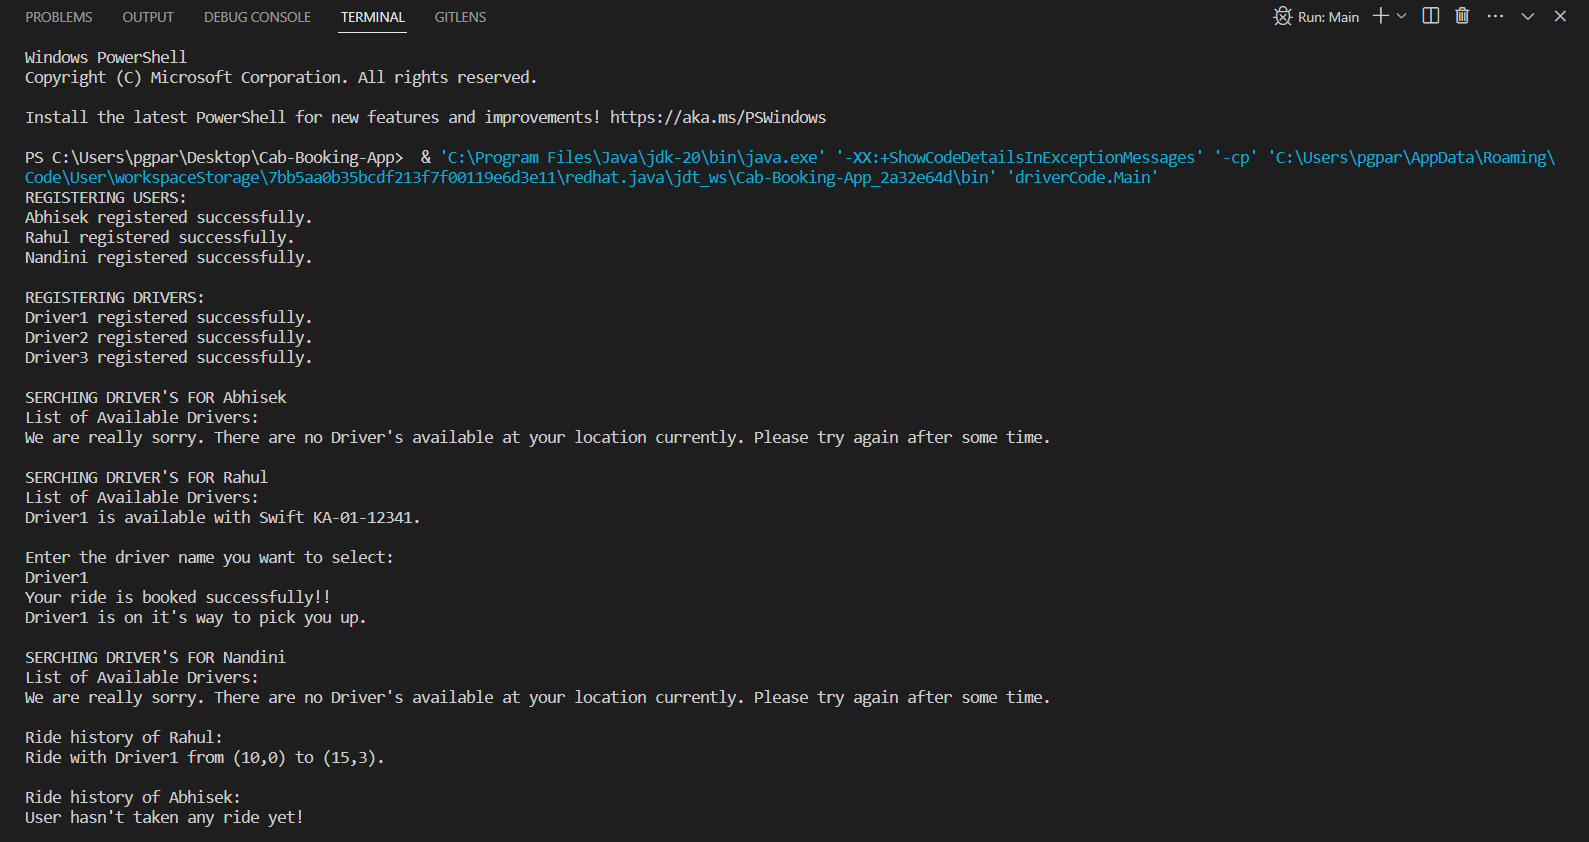
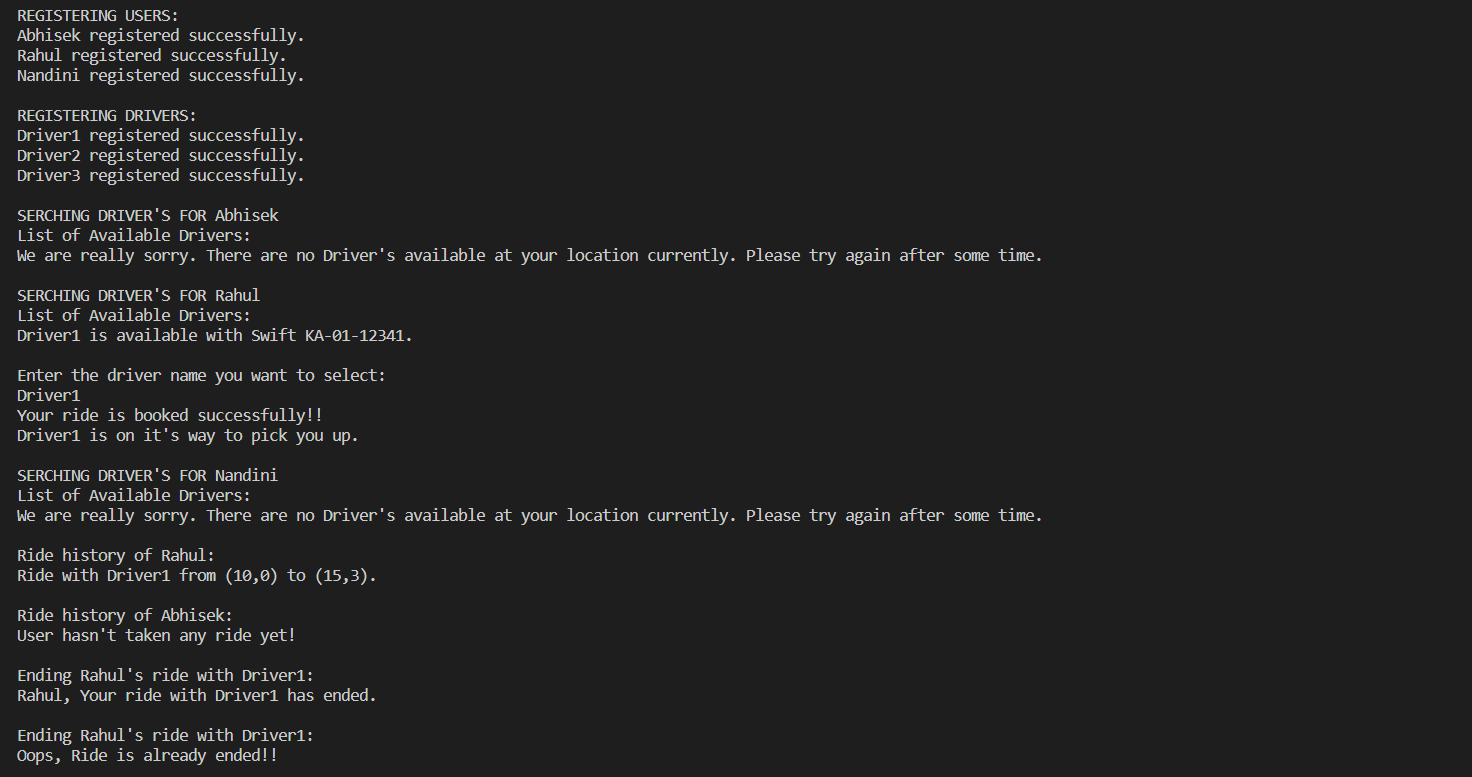
endRide feature added

diff --git a/src/services/RideService.java b/src/services/RideService.java
@@ -5,7 +5,7 @@ import models.User;
 import models.Location;
 import models.Ride;
 import java.util.*;
-import exceptions.DriverNotAvailableException;
+import exceptions.*;
 
 public class RideService {
 
@@ -47,8 +47,35 @@ public class RideService {
                 System.out.println("Your ride is booked successfully!!");
                 System.out.println(driver.getName()+" is on it's way to pick you up.");
                 System.out.println();
-                Ride ride = new Ride(driver, user, fromLocation, toLocation);
+                Ride ride = new Ride(driver, user, fromLocation, toLocation,true);
                 user.getRideList().add(ride);
+            }
+        }
+    }
+
+
+    public void endRide(int userId, String driverName, Location toLocation) throws RideEndedAlreadyException{
+        User user = userService.userMap.get(userId);
+        List<Ride> rideList=user.getRideList();
+        for(Ride ride : rideList){
+            if(ride.getUser().getId()==userId && ride.getDriver().getName().equals(driverName)){
+                System.out.println("Ending "+user.getName()+"'s ride with "+driverName+":");
+                if(ride.istripOngoing()){
+                    Driver driver= userService.driverMap.get(ride.getDriver().getId());
+                    driver.setAvailable(true);
+                    ride.setTripOngoing(false);
+                    System.out.println(user.getName()+", Your ride with "+driverName+" has ended.");
+                    System.out.println();
+                    driver.getVehicle().getLocation().setX(toLocation.getX());
+                    driver.getVehicle().getLocation().setY(toLocation.getY());
+                }
+                else{
+                    throw new RideEndedAlreadyException("Oops, Ride is already ended!!");
+                }
+                
+            }
+            else{
+                throw new RideEndedAlreadyException("Oops, Ride details not found to end the ride!!");
             }
         }
     }

diff --git a/src/services/UserService.java b/src/services/UserService.java
@@ -33,7 +33,7 @@ public class UserService {
     public Driver registerDriver(String name, int id, Gender gender, Vehicle v1, boolean available) throws CreateException {
         Driver driver = new Driver(name, id, gender, v1, available);
         if(driver == null || driverMap.containsKey(driver.getId())){
-            throw new CreateException("Oops!! Driver was not created.");
+            throw new CreateException("Oops!! Driver was not registered.");
         }
         driverMap.put(driver.getId(), driver);
         vehicleMap.put(driver.getVehicle().getvehicleId(), driver.getVehicle());
@@ -43,7 +43,7 @@ public class UserService {
     public User registerUser(String name, int id, Gender gender) throws CreateException{
         User user = new User(name, id, gender);
         if(user == null || userMap.containsKey(user.getId())){
-            throw new CreateException("Oops!! User was not created.");
+            throw new CreateException("Oops!! User was not registered.");
         }
         userMap.put(user.getId(), user);
         return user;

diff --git a/src/models/Ride.java b/src/models/Ride.java
@@ -5,12 +5,14 @@ public class Ride {
     private User user;
     private Location fromLocation;
     private Location toLocation;
+    private Boolean tripOngoing;
 
-    public Ride(Driver driver, User user, Location fromLocation, Location toLocation){
+    public Ride(Driver driver, User user, Location fromLocation, Location toLocation, Boolean tripOngoing){
         this.driver = driver;
         this.user = user;
         this.fromLocation = fromLocation;
         this.toLocation = toLocation;
+        this.tripOngoing=tripOngoing;
     }
 
     public Driver getDriver() {
@@ -43,5 +45,13 @@ public class Ride {
 
     public void setToLocation(Location toLocation) {
         this.toLocation = toLocation;
+    }
+
+    public boolean istripOngoing() {
+        return tripOngoing;
+    }
+
+    public void setTripOngoing(Boolean tripOngoing) {
+        this.tripOngoing = tripOngoing;
     }
 }

diff --git a/src/driverCode/Main.java b/src/driverCode/Main.java
@@ -1,5 +1,6 @@
 package driverCode;
 
+
 import enums.Gender;
 import exceptions.CreateException;
 import exceptions.NoRideDetailsException;
@@ -106,5 +107,24 @@ public class Main {
             System.out.println(e.getMessage());
             System.out.println();
         }
+
+        try {
+            cabBookingService.endRide(29,"Driver1", drop2);
+        }
+        catch (Exception e)
+        {
+            System.out.println(e.getMessage());
+            System.out.println();
+        }
+
+        try {
+            cabBookingService.endRide(29,"Driver1", drop2);
+        }
+        catch (Exception e)
+        {
+            System.out.println(e.getMessage());
+            System.out.println();
+        }
+
     }
 }

diff --git a/src/services/CabBookingService.java b/src/services/CabBookingService.java
@@ -40,4 +40,8 @@ public class CabBookingService {
     public void rideHistory(String name) throws NoRideDetailsException{
         userService.rideHistory(name);
     }
+
+    public void endRide(int userId, String driverName, Location toLocation) throws RideEndedAlreadyException{
+        rideService.endRide(userId, driverName, toLocation);
+    }
 }

diff --git a/src/exceptions/RideEndedAlreadyException.java b/src/exceptions/RideEndedAlreadyException.java
@@ -1,0 +1,7 @@
+package exceptions;
+
+public class RideEndedAlreadyException extends Exception{
+    public RideEndedAlreadyException(String message){
+        super(message);
+    } 
+}

diff --git a/README.md b/README.md
@@ -1,6 +1,6 @@
 <p align="center">
   <h1 align="center">CAB BOOKING APPLICATION</h1>
-  <p align="center">It's a cab booking application built using Java. We can register 'n' number of users and drivers in our application using the "addUser()" and "addDriver()" functionality. Using this application we can book a ride from a particular pickup location to a particular drop location using the "findRide()" functionality. We can also check a particular user's ride history using the "rideHistory()" functionality. To know more, Please check out the Driver code explaination section.</p>
+  <p align="center">It's a cab booking application built using Java. We can register 'n' number of users and drivers in our application using the "addUser()" and "addDriver()" functionality. Using this application we can book a ride from a particular pickup location to a particular drop location using the "findRide()" functionality. We can check a particular user's ride history using the "rideHistory()" functionality and we can also end a booked a previously booked ride and update the driver's location with the drop location usind "endRide()" functionality. To know more, Please check out the Driver code explaination section.</p>
   <img src="./image/Output.png">
   <p align="center">
     Implementation of Cab Booking Application using JAVA.
@@ -79,6 +79,15 @@ Here we are registering 3 drivers: d1, d2 and d3.
 
 1. Get the details of all the rides a particular user has taken.
 2. If the user has not taken any rides then it displays a message "User hasn't taken any ride yet!"
+
+**Ending Ride**
+
+![](./image/EndRide.png)
+
+1. We can end the previously booked ride.
+2. If ride has been already ended then it displays message "Oops, Ride is already ended!!".
+3. If ride details are not found then it displays message "Oops, Ride details not found to end the ride!!".
+4. Else,it ends the ride and updates the driver Location with ride's destination/drop location.
 
 **OUTPUT**
 
